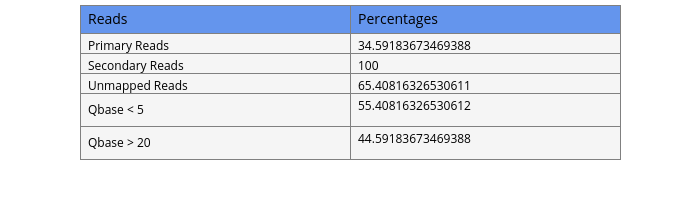
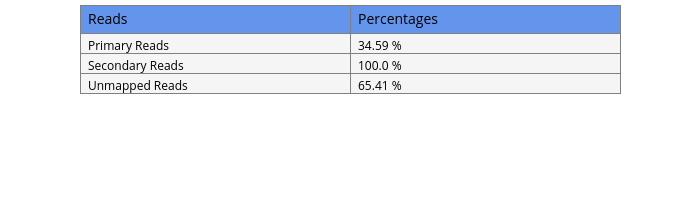
Update alignments table and add denisty plot for mapq

diff --git a/scripts/plot.py b/scripts/plot.py
@@ -16,21 +16,17 @@ def plot_stats(sample):
    secondary_reads = int(infile.readline()) 
    unmapped_reads = int(infile.readline())
    total_reads = int(infile.readline())
-   qbasel5 = int(infile.readline()) 
-   qbaseg20 = int(infile.readline())
-   primary_reads = primary_reads / total_reads * 100 
-   secondary_reads = secondary_reads / total_reads * 100 
-   unmapped_reads = unmapped_reads / total_reads * 100 
-   qbasel5 = qbasel5 / total_reads * 100 
-   qbaseg20 = qbaseg20 / total_reads *100 
+   primary_reads = round(primary_reads / total_reads * 100, 2) 
+   secondary_reads = round(secondary_reads / total_reads * 100, 2) 
+   unmapped_reads = round(unmapped_reads / total_reads * 100, 2) 
 
    fig = go.Figure(data=[go.Table(
    header=dict(values=['Reads', 'Percentages'],
                 line_color='grey',
                 fill_color='cornflowerblue',
                 align='left', font=dict(color='black', family="Open Sans", size=14)),
-   cells=dict(values=[['Primary Reads', 'Secondary Reads', 'Unmapped Reads', 'Qbase < 5', 'Qbase > 20'], # 1st column
-                       [primary_reads, secondary_reads, unmapped_reads, qbasel5, qbaseg20]], # 2nd column
+   cells=dict(values=[['Primary Reads', 'Secondary Reads', 'Unmapped Reads'], # 1st column
+                       [str(primary_reads)+" %", str(secondary_reads)+" %", str(unmapped_reads)+" %"]], # 2nd column
                line_color='grey',
                fill_color='whitesmoke',
                align='left',font=dict(color='black', family="Open Sans", size=12)) ) ])

diff --git a/scripts/wraptohtml.py b/scripts/wraptohtml.py
@@ -15,7 +15,7 @@ def html_report(sample):
     hfile.write("<h1> Contamination Check </h1> <br> </br>  ")
     contamination_image =sample+".r_1_screen.png"
     hfile.write("<center>")
-    contamination_plots = "<img src='" + contamination_image+ "' alt='Mapping to Multiple Genomes' class='cover' width='70%' height='70%' />"
+    contamination_plots = "<img src='" + contamination_image+ "' alt='Mapping to Multiple Genomes' class='cover' width='75%' height='75%' />"
     hfile.write(contamination_plots)
     hfile.write("</center>")
 
@@ -28,6 +28,11 @@ def html_report(sample):
     alignments_image =sample+".alignments.png"
     alignments_plots = "<img src='" + alignments_image+ "' alt='Alignments' width='100% height='100%'/>"
     hfile.write(alignments_plots)
+
+    hfile.write("<h2> Mapping Quality </h2> <br> </br>  ")
+    mquality_image =sample+".mapq.png"
+    mquality_plots = "<img src='" + mquality_image+ "' alt='Mapping Quality' width='100% height='100%'/>"
+    hfile.write(mquality_plots)
 
     hfile.write("<h1> Coverage</h1> ")
     coverage_txt= sample+".coverage.histogram.txt"

diff --git a/scripts/mapq.py b/scripts/mapq.py
@@ -1,0 +1,30 @@
+#!/usr/bin/env python
+
+import pysam
+import seaborn as sns
+import argparse
+from matplotlib import pyplot as plt
+
+parser = argparse.ArgumentParser(description="Mapping Quality Density Plot")
+
+parser.add_argument('--bam', required=True, help='path to input bam file', action='store')
+parser.add_argument('--png', required=True, help='path to output png file', action='store')
+
+args=parser.parse_args()
+
+output = args.png
+input = args.bam 
+
+bam = pysam.AlignmentFile(input, "rb")
+
+quals = [read.mapping_quality for read in bam.fetch()]
+
+sns.set_style("darkgrid")
+sns.set_context("paper")
+plt.figure(figsize=(7,4))
+
+ax = sns.kdeplot(quals, shade = True, color ="blue")
+ax.set_ylabel('Density')
+ax.set_xlabel('Mapping Quality Score')
+
+plt.savefig(output)
